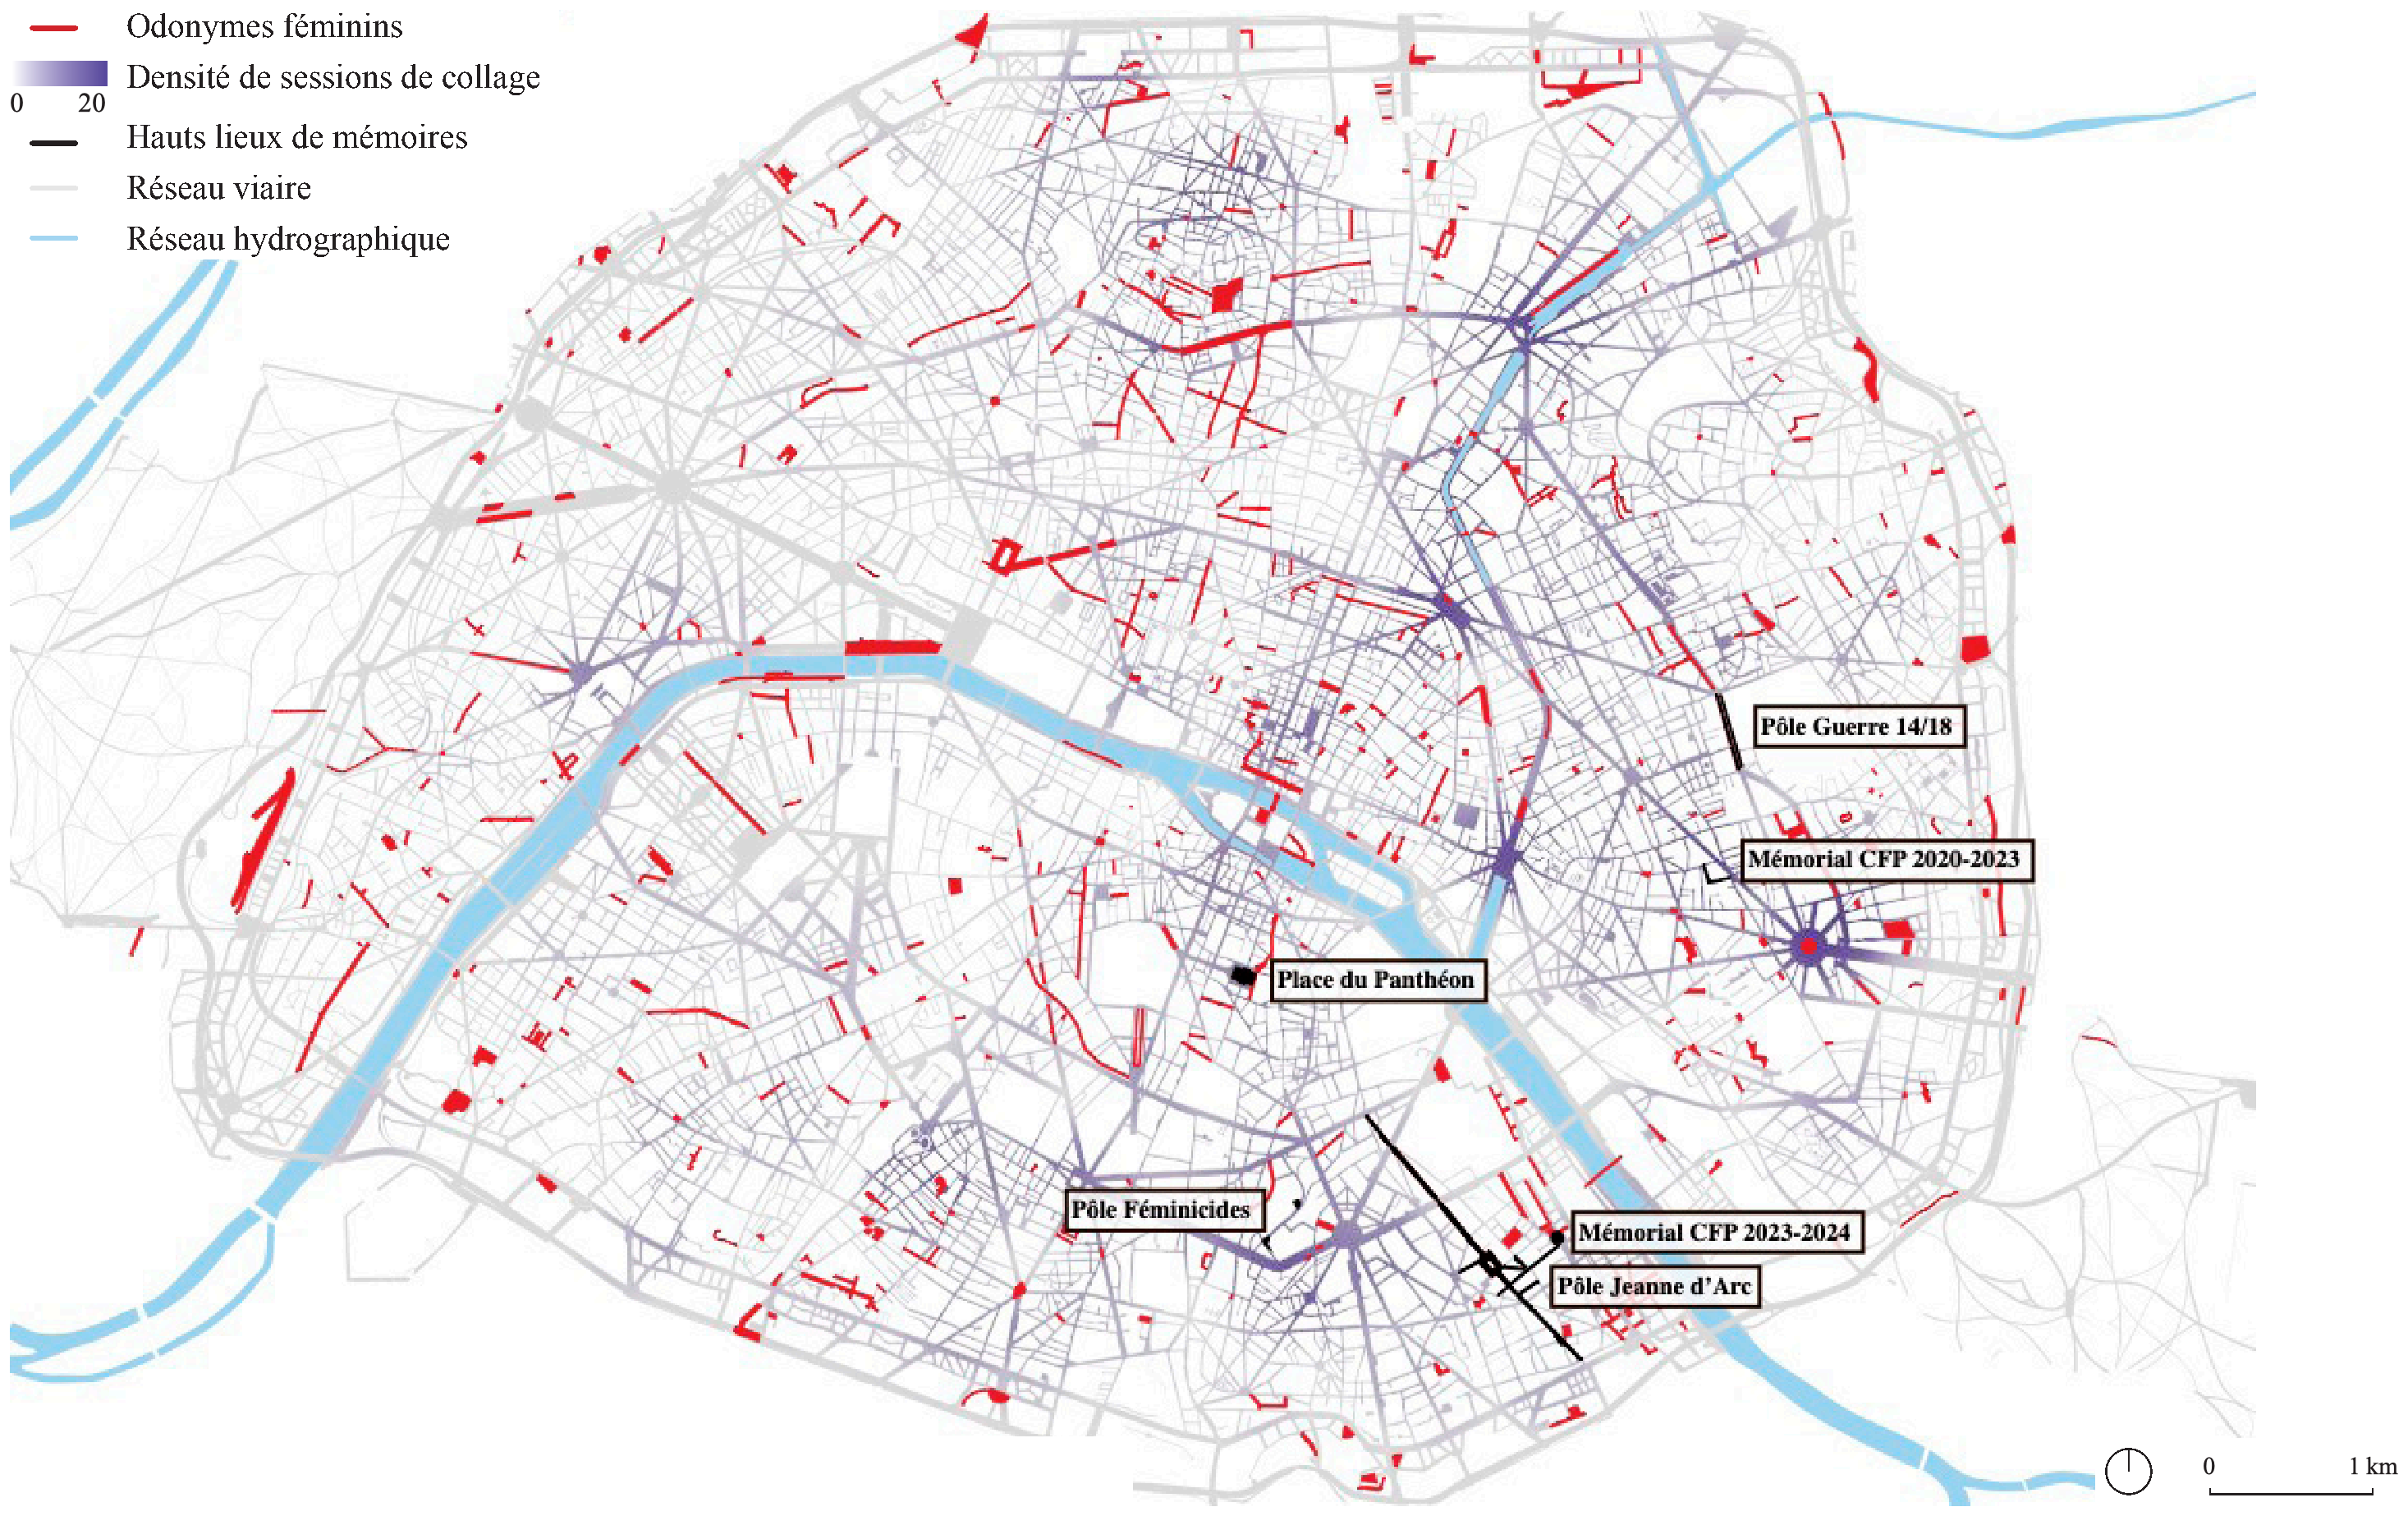
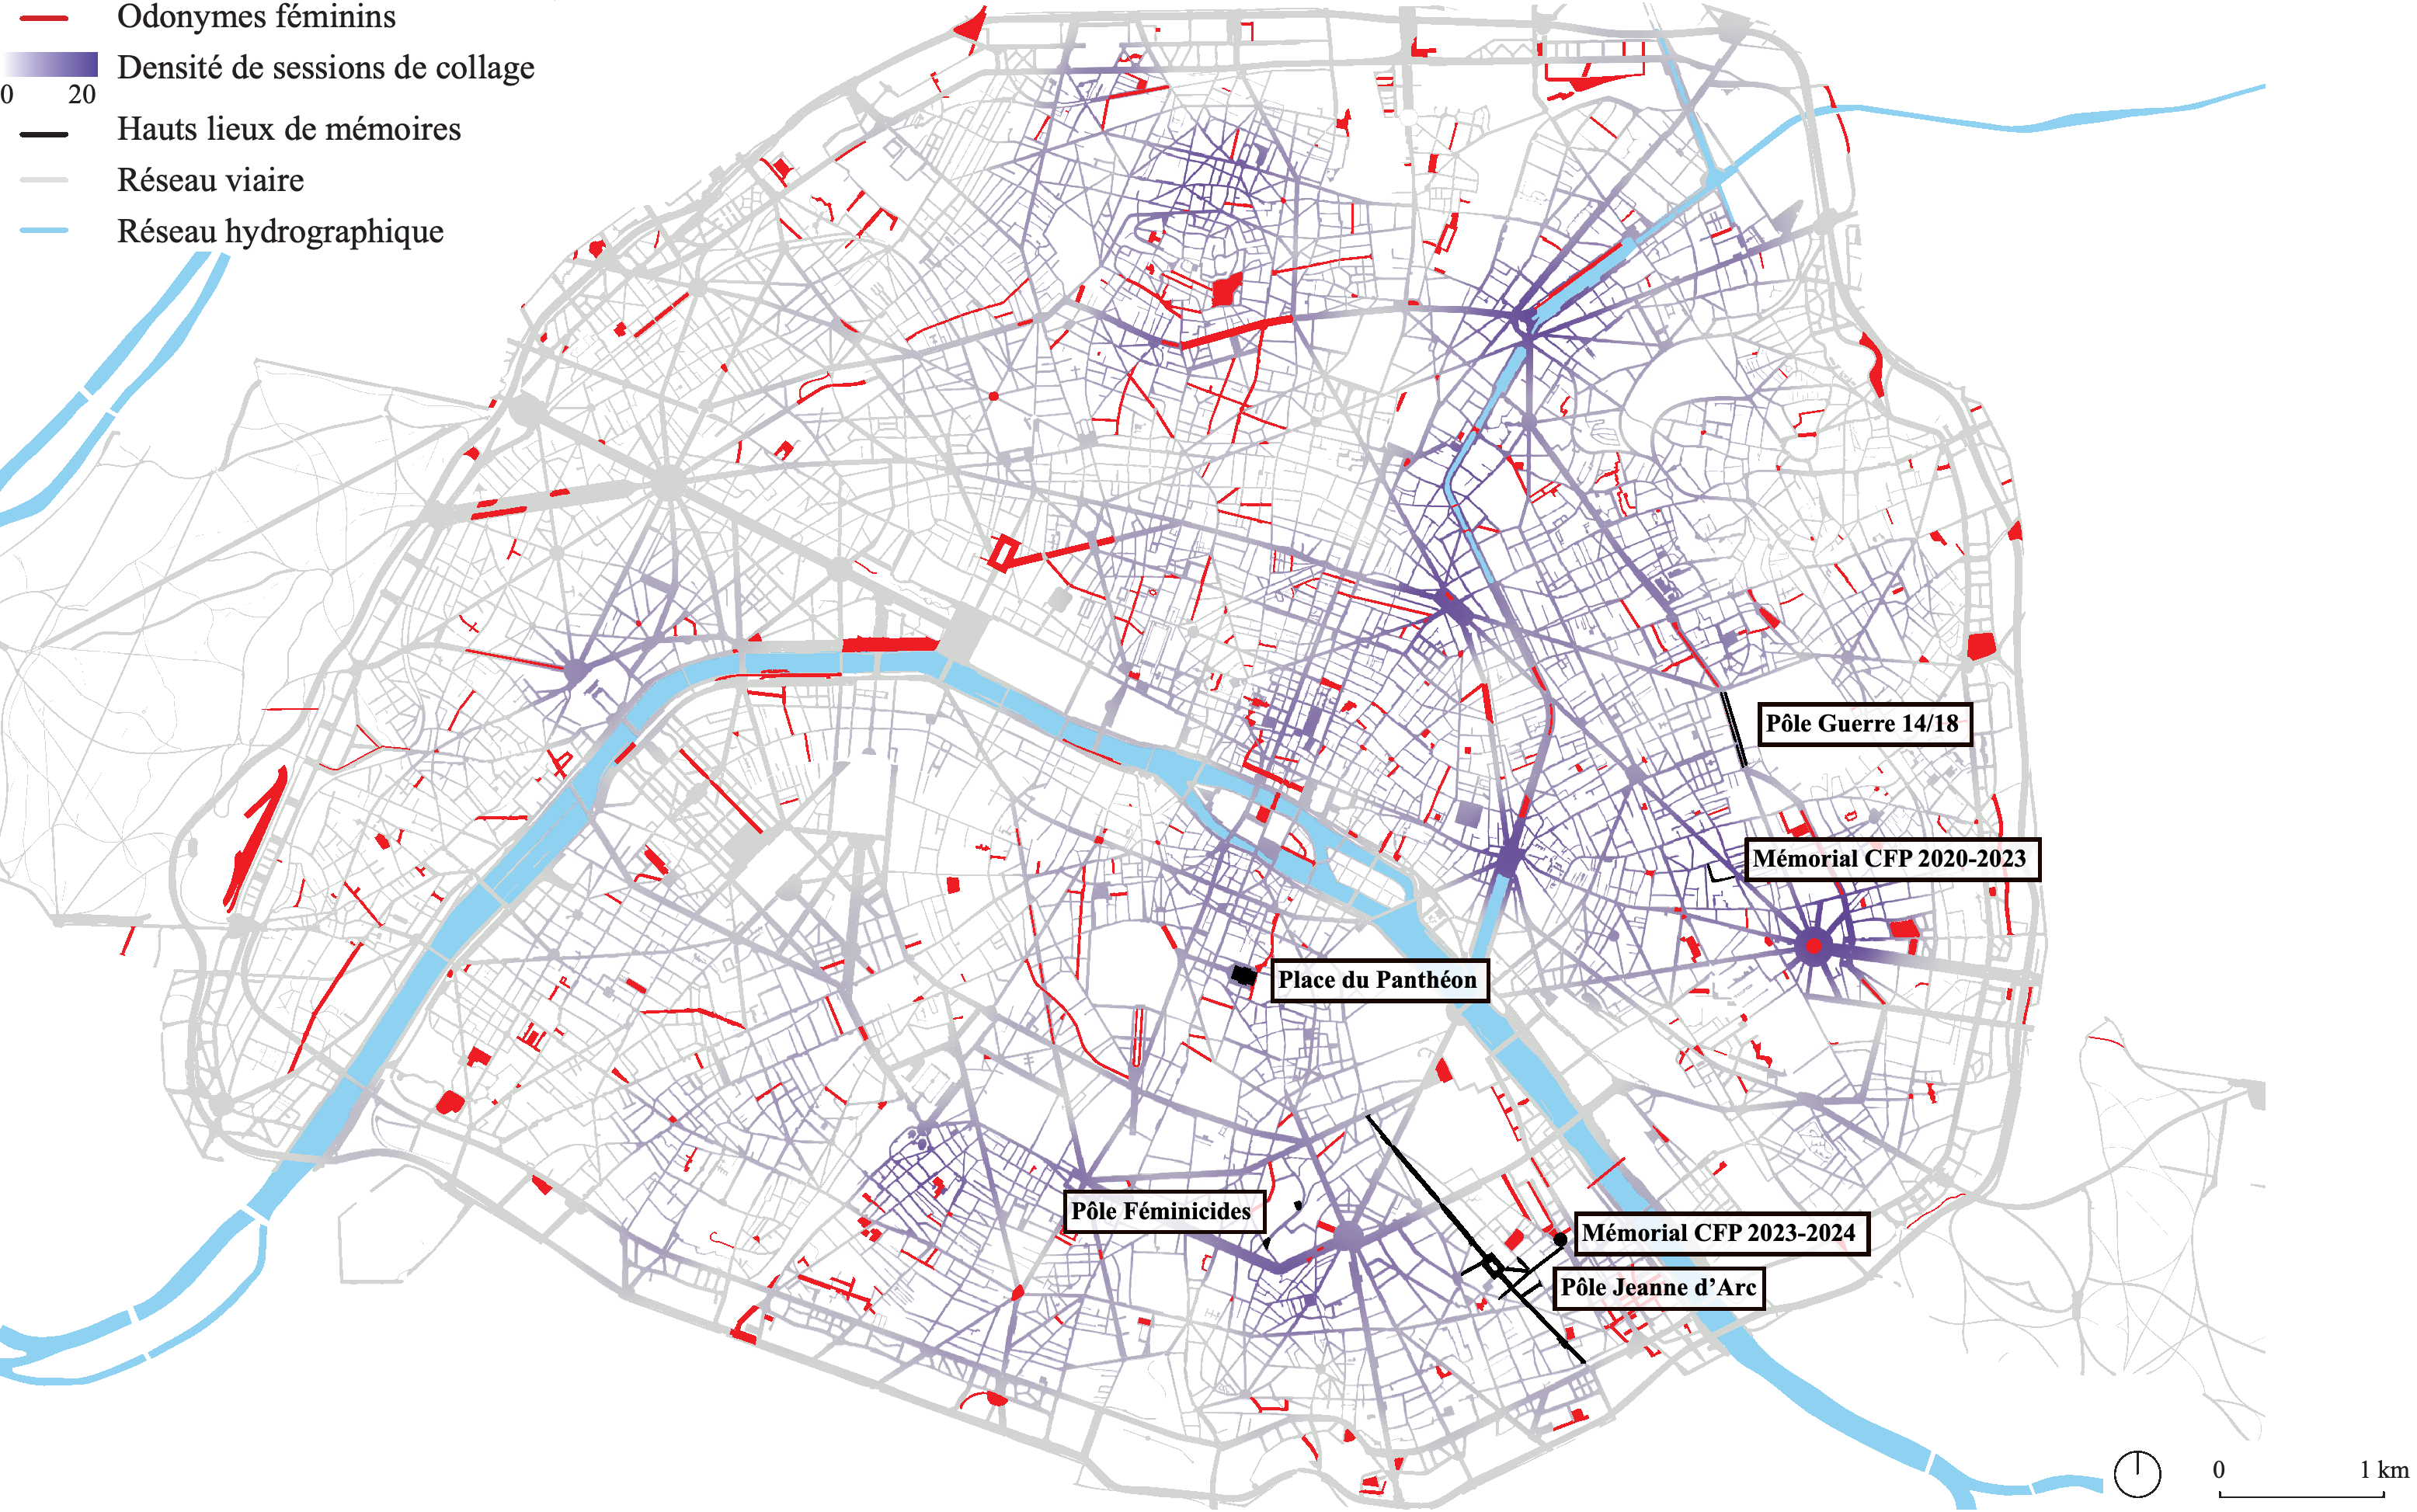
Fix corpus/visibility/synthesis crops; add data sources to map+chart captions; Denoël + parisgeo links

diff --git a/index.html b/index.html
@@ -37,7 +37,7 @@
 }
 </script>
 <script>
-  var BUILD = 44;
+  var BUILD = 45;
   console.log('%cDr Alexandra Mallah — site v' + BUILD, 'color:#8a6d3b;font-weight:bold');
   (function(){
     try{
@@ -379,11 +379,11 @@
           <div class="doc-col">
             <h4><span class="en">Maps</span><span class="fr">Cartes</span></h4>
             <div class="doc-scroll">
-              <figure class="schema paper"><img src="images/carte-voies-feminines.png?v=44" loading="lazy" draggable="false" alt="Carte des voies féminines de Paris selon leur date de baptême"><figcaption><span class="en">Streets named after women, by date of naming · Paris</span><span class="fr">Voies féminines selon leur date de baptême, à Paris</span><span class="credit">© Alexandra Mallah, 2025</span></figcaption></figure>
-              <figure class="schema paper"><img src="images/carte-feminicides.png?v=44" loading="lazy" draggable="false" alt="Carte de la géographie des collages contre les féminicides à Paris"><figcaption><span class="en">Geography of anti-femicide collages, 2019–2024 · Paris</span><span class="fr">Géographie des collages contre les féminicides, de 2019 à 2024, à Paris</span><span class="credit">© Alexandra Mallah, 2025</span></figcaption></figure>
-              <figure class="schema paper"><img src="images/carte-visibilite.png?v=44" loading="lazy" draggable="false" alt="Carte du niveau de visibilité des collages selon leur rue d'implantation"><figcaption><span class="en">Visibility of collages by street where posted · Paris</span><span class="fr">Niveau de visibilité des collages selon leur rue d'implantation, à Paris</span><span class="credit">© Alexandra Mallah, 2025</span></figcaption></figure>
-              <figure class="schema paper"><img src="images/carte-syntheses.png?v=44" loading="lazy" draggable="false" alt="Synthèse des géographies des mémoires féminines et féministes à Paris"><figcaption><span class="en">Synthesis of women's and feminist memory geographies · Paris</span><span class="fr">Synthèse des géographies des mémoires féminines et féministes, à Paris</span><span class="credit">© Alexandra Mallah, 2025</span></figcaption></figure>
-              <figure class="schema paper"><img src="images/carte-perimetre.png?v=44" loading="lazy" draggable="false" alt="Identification du périmètre englobant les collages produits lors d'une session"><figcaption><span class="en">Perimeter enclosing the collages of a single session</span><span class="fr">Identification du périmètre englobant les collages d'une même session</span><span class="credit">© Alexandra Mallah, 2025</span></figcaption></figure>
+              <figure class="schema paper"><img src="images/carte-voies-feminines.png?v=44" loading="lazy" draggable="false" alt="Carte des voies féminines de Paris selon leur date de baptême"><figcaption><span class="en">Streets named after women, by date of naming · Paris</span><span class="fr">Voies féminines selon leur date de baptême, à Paris</span><span class="credit">© Alexandra Mallah, 2025 · <span class="en">Source: Paris Open Data — City of Paris, 2018</span><span class="fr">Source : Paris Open Data — Ville de Paris, 2018</span></span></figcaption></figure>
+              <figure class="schema paper"><img src="images/carte-feminicides.png?v=44" loading="lazy" draggable="false" alt="Carte de la géographie des collages contre les féminicides à Paris"><figcaption><span class="en">Geography of anti-femicide collages, 2019–2024 · Paris</span><span class="fr">Géographie des collages contre les féminicides, de 2019 à 2024, à Paris</span><span class="credit">© Alexandra Mallah, 2025 · <span class="en">Source: fieldwork data, A. Mallah</span><span class="fr">Source : données de terrain, A. Mallah</span></span></figcaption></figure>
+              <figure class="schema paper"><img src="images/carte-visibilite.png?v=44" loading="lazy" draggable="false" alt="Carte du niveau de visibilité des collages selon leur rue d'implantation"><figcaption><span class="en">Visibility of collages by street where posted · Paris</span><span class="fr">Niveau de visibilité des collages selon leur rue d'implantation, à Paris</span><span class="credit">© Alexandra Mallah, 2025 · <span class="en">Source: APUR, 2024</span><span class="fr">Source : APUR, 2024</span></span></figcaption></figure>
+              <figure class="schema paper"><img src="images/carte-syntheses.png?v=45" loading="lazy" draggable="false" alt="Synthèse des géographies des mémoires féminines et féministes à Paris"><figcaption><span class="en">Synthesis of women's and feminist memory geographies · Paris</span><span class="fr">Synthèse des géographies des mémoires féminines et féministes, à Paris</span><span class="credit">© Alexandra Mallah, 2025 · <span class="en">Source: Paris Open Data — City of Paris, 2018</span><span class="fr">Source : Paris Open Data — Ville de Paris, 2018</span></span></figcaption></figure>
+              <figure class="schema paper"><img src="images/carte-perimetre.png?v=44" loading="lazy" draggable="false" alt="Identification du périmètre englobant les collages produits lors d'une session"><figcaption><span class="en">Perimeter enclosing the collages of a single session</span><span class="fr">Identification du périmètre englobant les collages d'une même session</span><span class="credit">© Alexandra Mallah, 2025 · <span class="en">Source: fieldwork data, A. Mallah</span><span class="fr">Source : données de terrain, A. Mallah</span></span></figcaption></figure>
             </div>
           </div>
           <div class="doc-col">
@@ -404,14 +404,14 @@
           <div class="doc-col">
             <h4><span class="en">Diagrams &amp; charts</span><span class="fr">Graphiques &amp; schémas</span></h4>
             <div class="doc-scroll">
-              <figure class="schema paper"><img src="images/fig-corpus.png?v=41" loading="lazy" draggable="false" alt="Schéma de la construction du corpus de recherche par affinages successifs"><figcaption><span class="en">Building the research corpus through successive refinements</span><span class="fr">Construction du corpus de recherche par affinages successifs</span><span class="credit">© Alexandra Mallah, 2025</span></figcaption></figure>
+              <figure class="schema paper"><img src="images/fig-corpus.png?v=45" loading="lazy" draggable="false" alt="Schéma de la construction du corpus de recherche par affinages successifs"><figcaption><span class="en">Building the research corpus through successive refinements</span><span class="fr">Construction du corpus de recherche par affinages successifs</span><span class="credit">© Alexandra Mallah, 2025</span></figcaption></figure>
               <figure class="schema paper"><img src="images/fig-schemes.png?v=41" loading="lazy" draggable="false" alt="Schéma des schèmes temporels et spatiaux qui régissent l'existence des écrits"><figcaption><span class="en">Temporal and spatial schemes governing the life of public writings</span><span class="fr">Schèmes temporels et spatiaux qui régissent l'existence des écrits</span><span class="credit">© Alexandra Mallah, 2025</span></figcaption></figure>
-              <figure class="schema paper"><img src="images/fig-visibilite.png?v=41" loading="lazy" draggable="false" alt="Schéma de la visibilité des écritures exposées selon une approche temporelle"><figcaption><span class="en">The visibility of public writings through a temporal lens</span><span class="fr">Synthèse de la visibilité des écritures exposées selon une approche temporelle</span><span class="credit">© Alexandra Mallah, 2025</span></figcaption></figure>
+              <figure class="schema paper"><img src="images/fig-visibilite.png?v=45" loading="lazy" draggable="false" alt="Schéma de la visibilité des écritures exposées selon une approche temporelle"><figcaption><span class="en">The visibility of public writings through a temporal lens</span><span class="fr">Synthèse de la visibilité des écritures exposées selon une approche temporelle</span><span class="credit">© Alexandra Mallah, 2025</span></figcaption></figure>
               <figure class="schema paper"><img src="images/fig-pantheon.png?v=41" loading="lazy" draggable="false" alt="Schéma de l'organisation des marqueurs mémoriels de la place du Panthéon selon le type de mémoire"><figcaption><span class="en">Mapping the memorial markers of place du Panthéon by type of memory</span><span class="fr">Organisation des marqueurs mémoriels de la place du Panthéon selon le type de mémoire</span><span class="credit">© Alexandra Mallah, 2025</span></figcaption></figure>
-              <figure class="schema paper"><img src="images/fig-odonymes-temps.png?v=41" loading="lazy" draggable="false" alt="Graphique de l'évolution de la production des odonymes de 1860 à 2024 à Paris"><figcaption><span class="en">Evolution of street-name creation, 1860–2024 · Paris</span><span class="fr">Évolution de la production des odonymes, de 1860 à 2024, à Paris</span><span class="credit">© Alexandra Mallah, 2025</span></figcaption></figure>
-              <figure class="schema paper"><img src="images/fig-odonymes-mandat.png?v=41" loading="lazy" draggable="false" alt="Graphique de la production des odonymes par mandat municipal de 1983 à 2024 à Paris"><figcaption><span class="en">Street-name creation by municipal term, 1983–2024 · Paris</span><span class="fr">Production des odonymes par mandat municipal, de 1983 à 2024, à Paris</span><span class="credit">© Alexandra Mallah, 2025</span></figcaption></figure>
-              <figure class="schema paper"><img src="images/fig-collages-total.png?v=41" loading="lazy" draggable="false" alt="Graphique de la part des collages commémoratifs dans le total de 2019 à 2024 à Paris"><figcaption><span class="en">Commemorative collages as a share of the total, 2019–2024 · Paris</span><span class="fr">Part des collages commémoratifs dans le total, de 2019 à 2024, à Paris</span><span class="credit">© Alexandra Mallah, 2025</span></figcaption></figure>
-              <figure class="schema paper"><img src="images/fig-collages-temps.png?v=41" loading="lazy" draggable="false" alt="Graphique de l'évolution mensuelle de la production des collages de 2019 à 2024 à Paris"><figcaption><span class="en">Monthly evolution of collage production, 2019–2024 · Paris</span><span class="fr">Évolution de la production des collages, par mois, de 2019 à 2024, à Paris</span><span class="credit">© Alexandra Mallah, 2025</span></figcaption></figure>
+              <figure class="schema paper"><img src="images/fig-odonymes-temps.png?v=41" loading="lazy" draggable="false" alt="Graphique de l'évolution de la production des odonymes de 1860 à 2024 à Paris"><figcaption><span class="en">Evolution of street-name creation, 1860–2024 · Paris</span><span class="fr">Évolution de la production des odonymes, de 1860 à 2024, à Paris</span><span class="credit">© Alexandra Mallah, 2025 · <span class="en">Source: Paris Open Data — City of Paris, 2018</span><span class="fr">Source : Paris Open Data — Ville de Paris, 2018</span></span></figcaption></figure>
+              <figure class="schema paper"><img src="images/fig-odonymes-mandat.png?v=41" loading="lazy" draggable="false" alt="Graphique de la production des odonymes par mandat municipal de 1983 à 2024 à Paris"><figcaption><span class="en">Street-name creation by municipal term, 1983–2024 · Paris</span><span class="fr">Production des odonymes par mandat municipal, de 1983 à 2024, à Paris</span><span class="credit">© Alexandra Mallah, 2025 · <span class="en">Source: Paris Open Data — City of Paris, 2018</span><span class="fr">Source : Paris Open Data — Ville de Paris, 2018</span></span></figcaption></figure>
+              <figure class="schema paper"><img src="images/fig-collages-total.png?v=41" loading="lazy" draggable="false" alt="Graphique de la part des collages commémoratifs dans le total de 2019 à 2024 à Paris"><figcaption><span class="en">Commemorative collages as a share of the total, 2019–2024 · Paris</span><span class="fr">Part des collages commémoratifs dans le total, de 2019 à 2024, à Paris</span><span class="credit">© Alexandra Mallah, 2025 · <span class="en">Source: fieldwork data, A. Mallah</span><span class="fr">Source : données de terrain, A. Mallah</span></span></figcaption></figure>
+              <figure class="schema paper"><img src="images/fig-collages-temps.png?v=41" loading="lazy" draggable="false" alt="Graphique de l'évolution mensuelle de la production des collages de 2019 à 2024 à Paris"><figcaption><span class="en">Monthly evolution of collage production, 2019–2024 · Paris</span><span class="fr">Évolution de la production des collages, par mois, de 2019 à 2024, à Paris</span><span class="credit">© Alexandra Mallah, 2025 · <span class="en">Source: fieldwork data, A. Mallah</span><span class="fr">Source : données de terrain, A. Mallah</span></span></figcaption></figure>
             </div>
           </div>
         </div>
@@ -472,13 +472,13 @@
       <h3><span class="en">Book chapters</span><span class="fr">Chapitres d'ouvrage</span></h3>
       <div class="entry"><div class="yr">2021</div><div>
         <p class="t">«&nbsp;La rue, un espace de domination masculine&nbsp;»</p>
-        <p class="src"><span class="en">In </span><em>Notre colère sur vos murs</em>, Paris, Denoël, p. 48–50.</p></div></div>
+        <p class="src"><span class="en">In </span><em>Notre colère sur vos murs</em>, Paris, Denoël, p. 48–50. · <a class="online" href="https://www.denoel.fr/catalogue/notre-colere-sur-vos-murs/9782207164341#block-feuilleter" target="_blank" rel="noopener"><span class="vis-hidden"><span class="en">View online</span><span class="fr">Voir en ligne</span></span><span aria-hidden="true">↗</span></a></p></div></div>
       <div class="entry"><div class="yr">2021</div><div>
         <p class="t">«&nbsp;Les collages comme moyen de se réapproprier l'espace urbain&nbsp;»</p>
-        <p class="src"><span class="en">In </span><em>Notre colère sur vos murs</em>, Paris, Denoël, p. 51–59.</p></div></div>
+        <p class="src"><span class="en">In </span><em>Notre colère sur vos murs</em>, Paris, Denoël, p. 51–59. · <a class="online" href="https://www.denoel.fr/catalogue/notre-colere-sur-vos-murs/9782207164341#block-feuilleter" target="_blank" rel="noopener"><span class="vis-hidden"><span class="en">View online</span><span class="fr">Voir en ligne</span></span><span aria-hidden="true">↗</span></a></p></div></div>
       <div class="entry"><div class="yr">2021</div><div>
         <p class="t">«&nbsp;Le déséquilibre spatial des collages dans Paris&nbsp;»</p>
-        <p class="src"><span class="en">In </span><em>Notre colère sur vos murs</em>, Paris, Denoël, p. 60–67.</p></div></div>
+        <p class="src"><span class="en">In </span><em>Notre colère sur vos murs</em>, Paris, Denoël, p. 60–67. · <a class="online" href="https://www.denoel.fr/catalogue/notre-colere-sur-vos-murs/9782207164341#block-feuilleter" target="_blank" rel="noopener"><span class="vis-hidden"><span class="en">View online</span><span class="fr">Voir en ligne</span></span><span aria-hidden="true">↗</span></a></p></div></div>
     </div>
 
     <div class="group">
@@ -535,7 +535,7 @@
         <p class="src">Journée d'étude «&nbsp;Les interdisciplinarités de la géographie avec les sciences sociales&nbsp;», Aubervilliers · <a class="online" href="https://geographie-cites.cnrs.fr/les-interdisciplinarites-de-la-geographie-avec-les-sciences-sociales/" target="_blank" rel="noopener"><span class="vis-hidden"><span class="en">View online</span><span class="fr">Voir en ligne</span></span><span aria-hidden="true">↗</span></a></p></div></div>
       <div class="entry"><div class="yr">2026</div><div>
         <p class="t">«&nbsp;Cartographier les collages contre les féminicides à Paris&nbsp;»</p>
-        <p class="src">Journée d'étude «&nbsp;Du réel aux modèles : concilier l'objectif d'abstraction et l'imprécision de l'information&nbsp;», Paris.</p></div></div>
+        <p class="src">Journée d'étude «&nbsp;Du réel aux modèles : concilier l'objectif d'abstraction et l'imprécision de l'information&nbsp;», Paris. · <a class="online" href="https://dphn.parisgeo.cnrs.fr/journee/modeliser_le_reel.html" target="_blank" rel="noopener"><span class="vis-hidden"><span class="en">View online</span><span class="fr">Voir en ligne</span></span><span aria-hidden="true">↗</span></a></p></div></div>
       <div class="entry"><div class="yr">2025</div><div>
         <p class="t">«&nbsp;Mémoire des genres : l'espace urbain comme une archive&nbsp;»</p>
         <p class="src">Journée d'étude internationale SFR ALLHiS «&nbsp;Genre, mémoire et sources&nbsp;», Saint-Étienne · <a class="online" href="https://www.fabula.org/actualites/126256/genre-memoire-et-sources.html" target="_blank" rel="noopener"><span class="vis-hidden"><span class="en">View online</span><span class="fr">Voir en ligne</span></span><span aria-hidden="true">↗</span></a></p></div></div>
@@ -650,7 +650,7 @@
 </section>
 
 <footer>© 2026 Alexandra Mallah</footer>
-<div class="ver" id="ver">v44</div>
+<div class="ver" id="ver">v45</div>
 
 <div class="lightbox" id="lightbox" oncontextmenu="return false"><span class="lb-close" aria-hidden="true">×</span><span class="lb-nav lb-prev" id="lb-prev" role="button" aria-label="Image précédente">‹</span><span class="lb-nav lb-next" id="lb-next" role="button" aria-label="Image suivante">›</span><figure class="lb-fig"><img id="lightbox-img" src="" alt="" draggable="false"><figcaption class="lb-cap" id="lightbox-cap"></figcaption></figure></div>
 